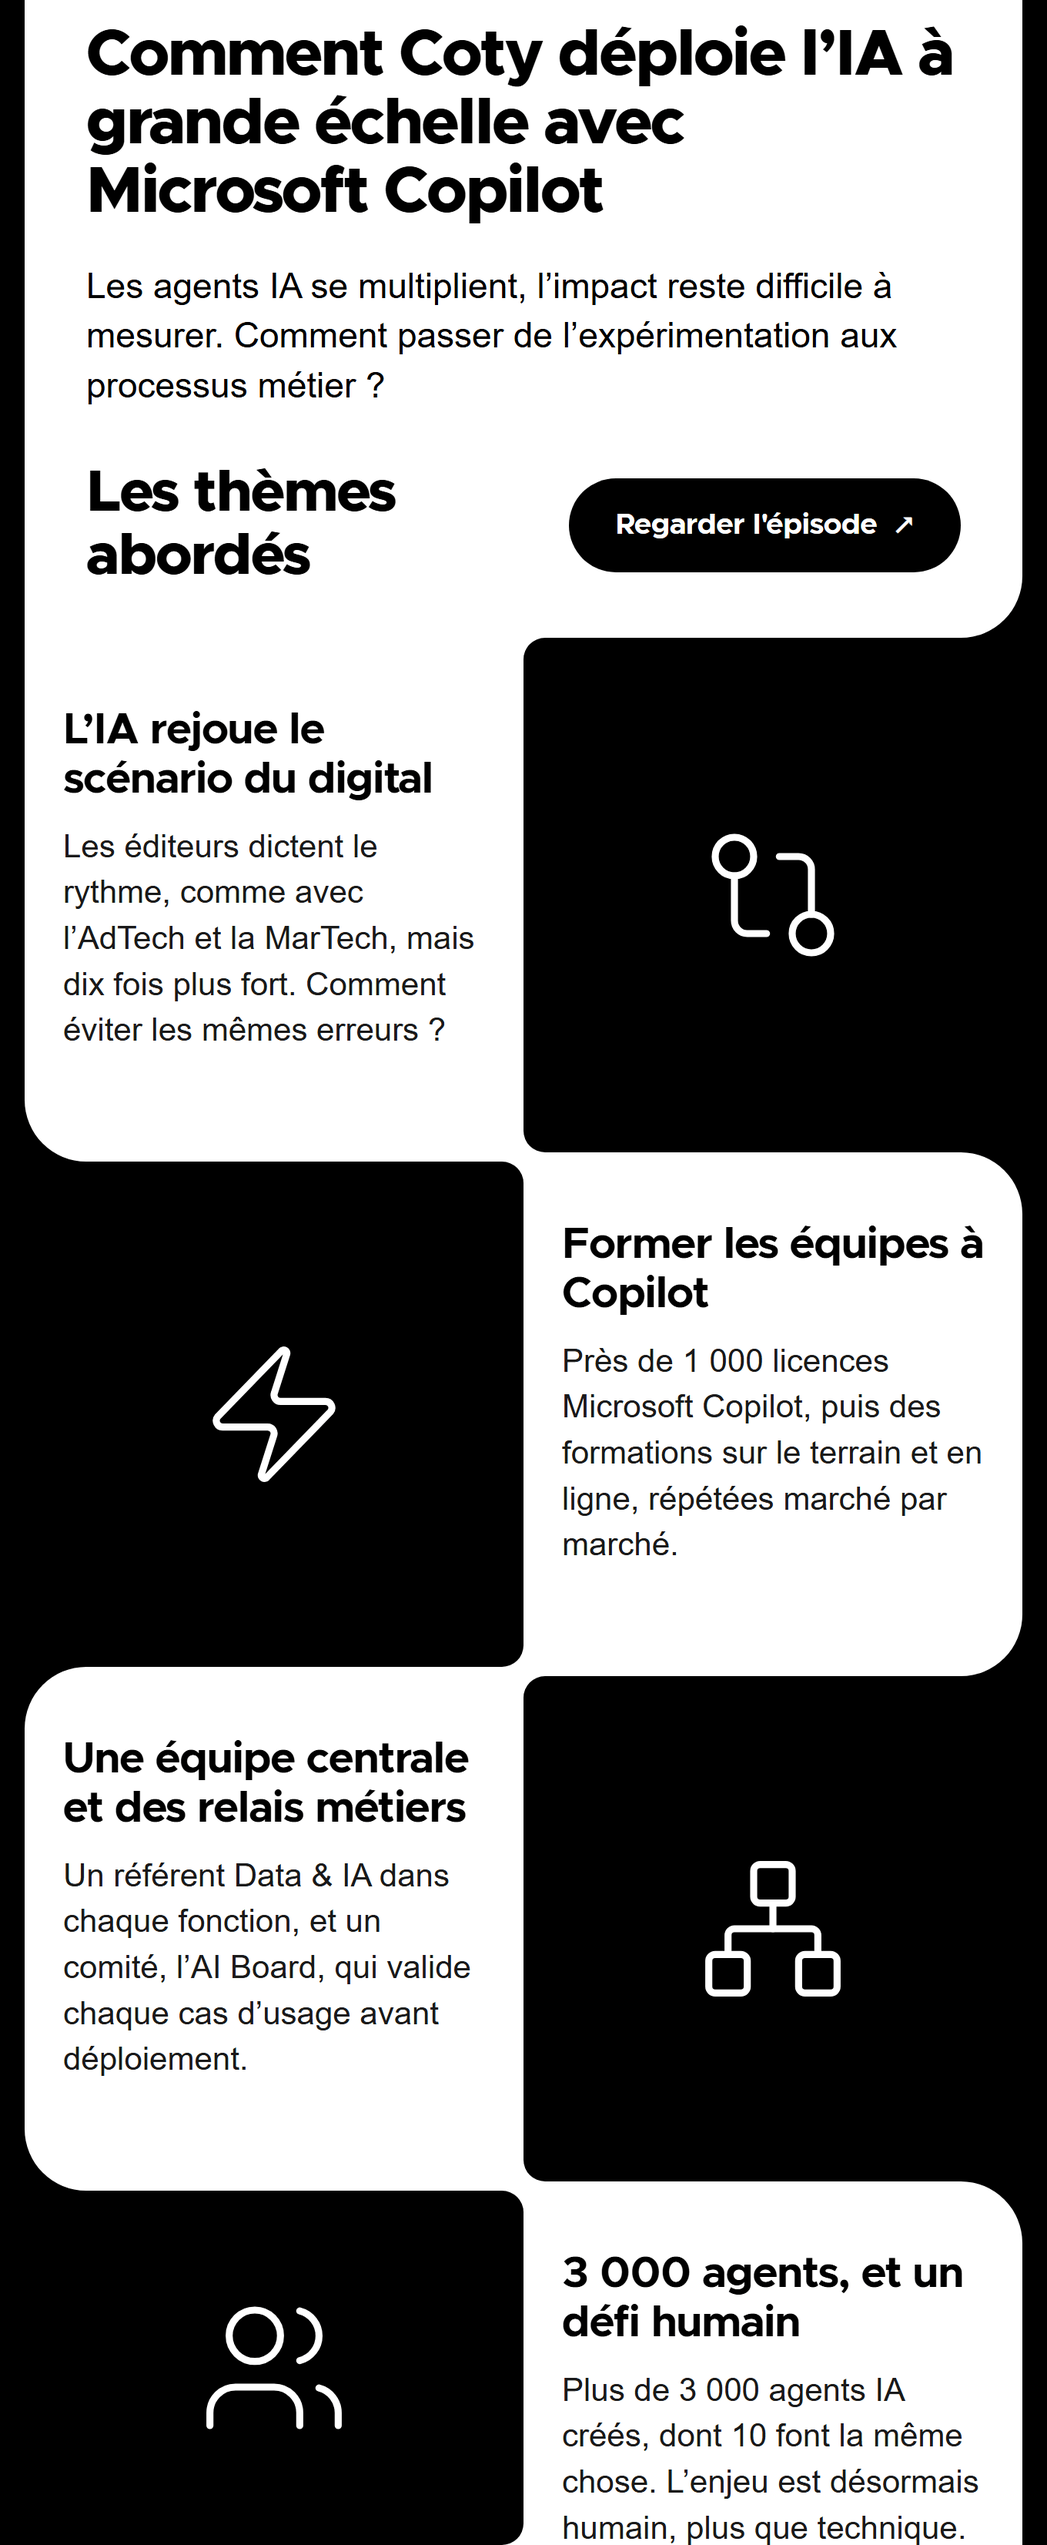
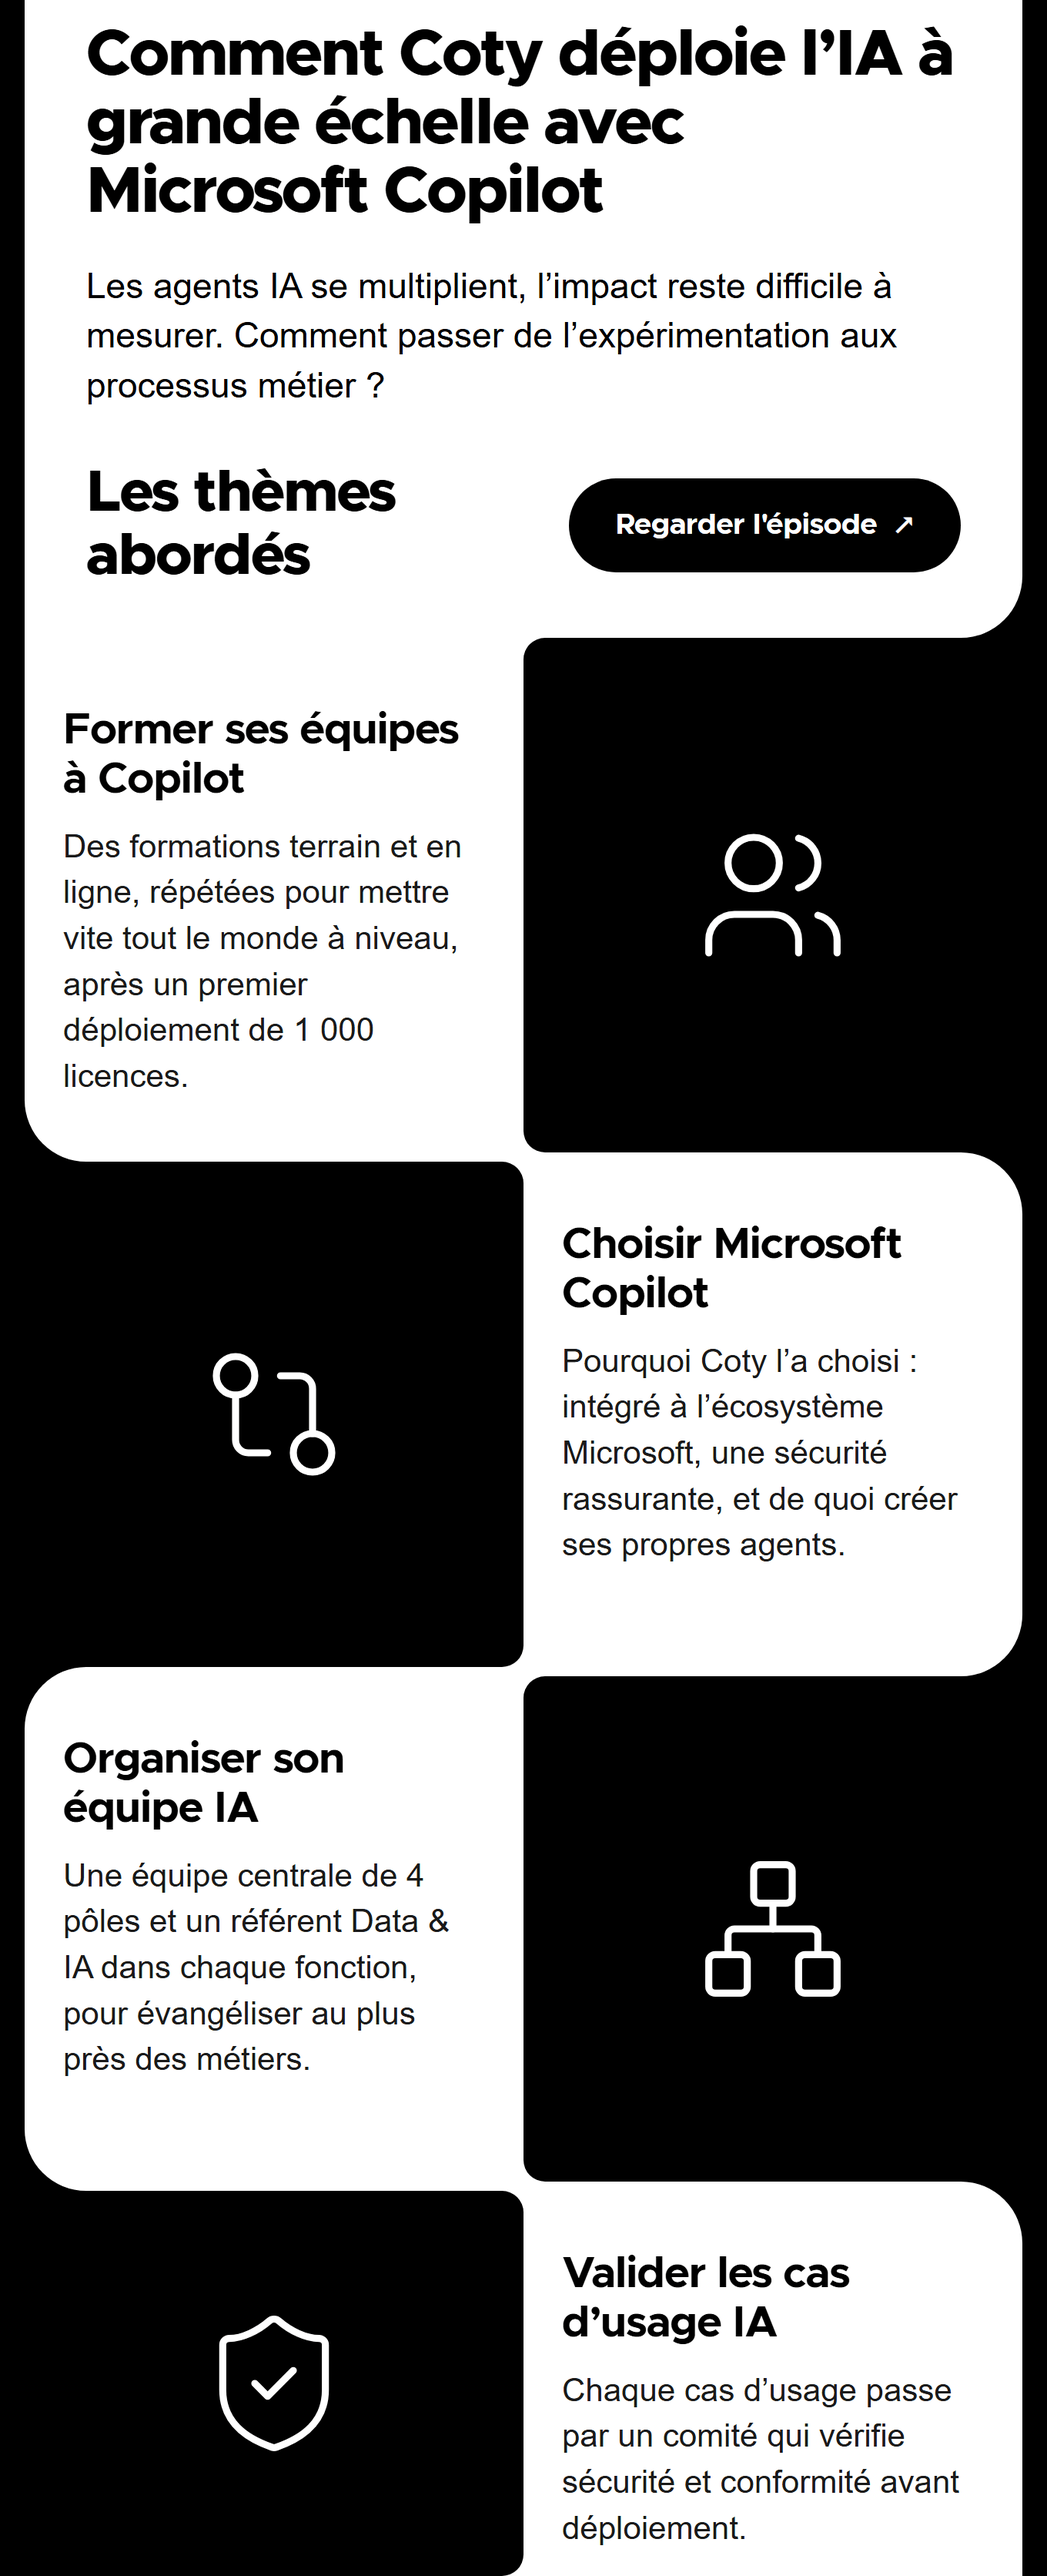
Mosaïque : carrés reformulés en sujets actionnables (former à Copilot, choisir Copilot, organiser l'équipe IA, valider les cas d'usage), retour d'Arthur 02/11

diff --git a/docs/newsletters/E23/email.html b/docs/newsletters/E23/email.html
@@ -7,6 +7,6 @@
 <div style="display:none;max-height:0;overflow:hidden;opacity:0">Nicolas Comestaz (Coty) : 3000 agents créés, et maintenant ? Sa méthode.</div>
 <table role="presentation" width="100%" cellpadding="0" cellspacing="0" bgcolor="#000000"><tr><td align="center" style="padding:24px 12px">
 <table role="presentation" width="680" cellpadding="0" cellspacing="0" bgcolor="#000000" style="width:100%;max-width:680px;border-radius:16px;overflow:hidden">
-<tr><td bgcolor="#000000" height="24" style="font-size:0;line-height:0;height:24px">&nbsp;</td></tr><tr><td bgcolor="#000000" style="font-size:0;line-height:0"><a href="{{lien_youtube}}" style="text-decoration:none"><img src="https://arthurw31.github.io/ai-partners-podcast-content-machine/newsletters/E23/mosaique_entete.png" width="680" alt="AI Corner by AI Partners, épisode E23" style="display:block;width:100%;max-width:680px;border:0"></a></td></tr><tr><td bgcolor="#000000" style="font-size:0;line-height:0"><a href="{{lien_youtube}}" style="text-decoration:none"><img src="https://arthurw31.github.io/ai-partners-podcast-content-machine/newsletters/E23/mosaique_miniature.jpg" width="680" alt="Comment Coty déploie l’IA à grande échelle avec Microsoft Copilot" style="display:block;width:100%;max-width:680px;border:0"></a></td></tr><tr><td bgcolor="#000000" style="font-size:0;line-height:0"><a href="{{lien_youtube}}" style="text-decoration:none"><img src="https://arthurw31.github.io/ai-partners-podcast-content-machine/newsletters/E23/mosaique_haut.png" width="680" alt="Comment Coty déploie l’IA à grande échelle avec Microsoft Copilot Les agents IA se multiplient, l’impact reste difficile à mesurer. Comment passer de l’expérimentation aux processus métier ? Les thèmes abordés. Regarder l&#x27;épisode. 04:53 L’IA rejoue le scénario du digital : Les éditeurs dictent le rythme, comme avec l’AdTech et la MarTech, mais dix fois plus fort. Comment éviter les mêmes erreurs ? 09:32 Former les équipes à Copilot : Près de 1 000 licences Microsoft Copilot, puis des formations sur le terrain et en ligne, répétées marché par marché. 22:47 Une équipe centrale et des relais métiers : Un référent Data &amp; IA dans chaque fonction, et un comité, l’AI Board, qui valide chaque cas d’usage avant déploiement. 31:54 3 000 agents, et un défi humain : Plus de 3 000 agents IA créés, dont 10 font la même chose. L’enjeu est désormais humain, plus que technique." style="display:block;width:100%;max-width:680px;border:0"></a></td></tr><tr><td bgcolor="#000000" style="font-size:0;line-height:0"><a href="https://calendar.google.com/calendar/appointments/schedules/AcZssZ0_yeSZr-eANdqFosuQLg2jE2smXxRU-eIMCXBA0WC3CynV7uSHwNeGX8FK-0MHDtpLcNiC4f9_?gv=true" style="text-decoration:none"><img src="https://arthurw31.github.io/ai-partners-podcast-content-machine/newsletters/E23/mosaique_fin.png" width="680" alt="Ma phrase préférée : le Head of AI est un architecte. Il comprend assez la technique pour challenger, sans poser le carrelage lui-même. Thomas Spitz Vos équipes testent l&#x27;IA. Et après ? Réserver un échange avec Thomas" style="display:block;width:100%;max-width:680px;border:0"></a></td></tr><tr><td bgcolor="#000000" align="center" style="padding:0 16px"><table role="presentation" width="100%" bgcolor="#FFFFFF" cellpadding="0" cellspacing="0"><tr><td align="center" bgcolor="#FFFFFF" style="padding:0 0 4px"><table role="presentation" align="center" cellpadding="0" cellspacing="0"><tr><td align="center" valign="middle" width="100" style="padding:0 4px;font-size:0;line-height:0"><a href="https://www.youtube.com/playlist?list=PLeeolan_fqxdZbU5xZqEwo12pbqK3fH5N" style="text-decoration:none"><img src="https://arthurw31.github.io/ai-partners-podcast-content-machine/newsletters/E23/mosaique_youtube.png" width="100" height="100" alt="Youtube" style="display:block;width:100px;height:100px;border:0"></a></td><td align="center" valign="middle" width="100" style="padding:0 4px;font-size:0;line-height:0"><a href="https://open.spotify.com/show/4chUmiipM4KiK4sEdL9BeP" style="text-decoration:none"><img src="https://arthurw31.github.io/ai-partners-podcast-content-machine/newsletters/E23/mosaique_spotify.png" width="100" height="100" alt="Spotify" style="display:block;width:100px;height:100px;border:0"></a></td><td align="center" valign="middle" width="100" style="padding:0 4px;font-size:0;line-height:0"><a href="https://podcast.ausha.co/ai-partners-podcast" style="text-decoration:none"><img src="https://arthurw31.github.io/ai-partners-podcast-content-machine/newsletters/E23/mosaique_ausha.png" width="100" height="100" alt="Ausha" style="display:block;width:100px;height:100px;border:0"></a></td></tr></table></td></tr></table></td></tr><tr><td bgcolor="#000000" style="font-size:0;line-height:0"><img src="https://arthurw31.github.io/ai-partners-podcast-content-machine/newsletters/E23/mosaique_plateformes_bas.png" width="680" alt="" style="display:block;width:100%;max-width:680px;border:0"></td></tr>
+<tr><td bgcolor="#000000" height="24" style="font-size:0;line-height:0;height:24px">&nbsp;</td></tr><tr><td bgcolor="#000000" style="font-size:0;line-height:0"><a href="{{lien_youtube}}" style="text-decoration:none"><img src="https://arthurw31.github.io/ai-partners-podcast-content-machine/newsletters/E23/mosaique_entete.png" width="680" alt="AI Corner by AI Partners, épisode E23" style="display:block;width:100%;max-width:680px;border:0"></a></td></tr><tr><td bgcolor="#000000" style="font-size:0;line-height:0"><a href="{{lien_youtube}}" style="text-decoration:none"><img src="https://arthurw31.github.io/ai-partners-podcast-content-machine/newsletters/E23/mosaique_miniature.jpg" width="680" alt="Comment Coty déploie l’IA à grande échelle avec Microsoft Copilot" style="display:block;width:100%;max-width:680px;border:0"></a></td></tr><tr><td bgcolor="#000000" style="font-size:0;line-height:0"><a href="{{lien_youtube}}" style="text-decoration:none"><img src="https://arthurw31.github.io/ai-partners-podcast-content-machine/newsletters/E23/mosaique_haut.png" width="680" alt="Comment Coty déploie l’IA à grande échelle avec Microsoft Copilot Les agents IA se multiplient, l’impact reste difficile à mesurer. Comment passer de l’expérimentation aux processus métier ? Les thèmes abordés. Regarder l&#x27;épisode. 09:32 Former ses équipes à Copilot : Des formations terrain et en ligne, répétées pour mettre vite tout le monde à niveau, après un premier déploiement de 1 000 licences. 12:06 Choisir Microsoft Copilot : Pourquoi Coty l’a choisi : intégré à l’écosystème Microsoft, une sécurité rassurante, et de quoi créer ses propres agents. 22:47 Organiser son équipe IA : Une équipe centrale de 4 pôles et un référent Data &amp; IA dans chaque fonction, pour évangéliser au plus près des métiers. 25:23 Valider les cas d’usage IA : Chaque cas d’usage passe par un comité qui vérifie sécurité et conformité avant déploiement." style="display:block;width:100%;max-width:680px;border:0"></a></td></tr><tr><td bgcolor="#000000" style="font-size:0;line-height:0"><a href="https://calendar.google.com/calendar/appointments/schedules/AcZssZ0_yeSZr-eANdqFosuQLg2jE2smXxRU-eIMCXBA0WC3CynV7uSHwNeGX8FK-0MHDtpLcNiC4f9_?gv=true" style="text-decoration:none"><img src="https://arthurw31.github.io/ai-partners-podcast-content-machine/newsletters/E23/mosaique_fin.png" width="680" alt="Ma phrase préférée : le Head of AI est un architecte. Il comprend assez la technique pour challenger, sans poser le carrelage lui-même. Thomas Spitz Vos équipes testent l&#x27;IA. Et après ? Réserver un échange avec Thomas" style="display:block;width:100%;max-width:680px;border:0"></a></td></tr><tr><td bgcolor="#000000" align="center" style="padding:0 16px"><table role="presentation" width="100%" bgcolor="#FFFFFF" cellpadding="0" cellspacing="0"><tr><td align="center" bgcolor="#FFFFFF" style="padding:0 0 4px"><table role="presentation" align="center" cellpadding="0" cellspacing="0"><tr><td align="center" valign="middle" width="100" style="padding:0 4px;font-size:0;line-height:0"><a href="https://www.youtube.com/playlist?list=PLeeolan_fqxdZbU5xZqEwo12pbqK3fH5N" style="text-decoration:none"><img src="https://arthurw31.github.io/ai-partners-podcast-content-machine/newsletters/E23/mosaique_youtube.png" width="100" height="100" alt="Youtube" style="display:block;width:100px;height:100px;border:0"></a></td><td align="center" valign="middle" width="100" style="padding:0 4px;font-size:0;line-height:0"><a href="https://open.spotify.com/show/4chUmiipM4KiK4sEdL9BeP" style="text-decoration:none"><img src="https://arthurw31.github.io/ai-partners-podcast-content-machine/newsletters/E23/mosaique_spotify.png" width="100" height="100" alt="Spotify" style="display:block;width:100px;height:100px;border:0"></a></td><td align="center" valign="middle" width="100" style="padding:0 4px;font-size:0;line-height:0"><a href="https://podcast.ausha.co/ai-partners-podcast" style="text-decoration:none"><img src="https://arthurw31.github.io/ai-partners-podcast-content-machine/newsletters/E23/mosaique_ausha.png" width="100" height="100" alt="Ausha" style="display:block;width:100px;height:100px;border:0"></a></td></tr></table></td></tr></table></td></tr><tr><td bgcolor="#000000" style="font-size:0;line-height:0"><img src="https://arthurw31.github.io/ai-partners-podcast-content-machine/newsletters/E23/mosaique_plateformes_bas.png" width="680" alt="" style="display:block;width:100%;max-width:680px;border:0"></td></tr>
 <tr><td bgcolor="#000000" class="pad" style="padding:22px 40px;font-family:Helvetica, Arial, sans-serif;font-size:12px;line-height:1.6;color:#B5B5B5">AI Corner, le podcast d'AI Partners.<!--FOOT--></td></tr>
 </table></td></tr></table></body></html>

diff --git a/clipper/newsletter_mosaique.py b/clipper/newsletter_mosaique.py
@@ -54,7 +54,7 @@ def stair(o: int) -> dict:
     r1e = r1s + BH
     l2s = r1e - OV
     l2e = l2s + BH
-    return {"l1e": r1s + OV, "r1s": r1s, "r1e": r1e, "l2s": l2s, "l2e": l2e, "r2s": l2e - OV, "step": l2e + 230}
+    return {"l1e": r1s + OV, "r1s": r1s, "r1e": r1e, "l2s": l2s, "l2e": l2e, "r2s": l2e - OV, "step": l2e + 250}
 
 
 def ribbon(o: int, end: int | None = None) -> list:
@@ -82,7 +82,7 @@ def sentences(text: str, max_chars: int, max_sentences: int = 2) -> str:
 def short_texts(mail: dict, title: str) -> dict:
     prog = []
     for i, p in enumerate(mail.get("program") or []):
-        prog.append({"time": _tc(p.get("chapter")), "title": p.get("court_title") or p.get("title", ""), "text": p.get("court") or sentences(p.get("text", ""), 95, 1),
+        prog.append({"time": _tc(p.get("court_chapter") or p.get("chapter")), "title": p.get("court_title") or p.get("title", ""), "text": p.get("court") or sentences(p.get("text", ""), 95, 1),
                      "glyph": p.get("glyph") or DEFAULT_GLYPHS[i % len(DEFAULT_GLYPHS)]})
     return {"title": re.sub(r"^\s*AI Corner E\d+\s*\|\s*", "", title or mail.get("theme", "")),
             "hook": mail.get("hook_court") or sentences(mail.get("hook", ""), 150, 2),

diff --git a/CLAUDE.md b/CLAUDE.md
@@ -144,6 +144,7 @@ Puis noter la demande et sa date dans la section concernée de ce fichier.
 - `clipper/newsletter_mosaique.py` : `newsletter --render --template mosaique` ; images `mosaique_*.png` rendues par Chrome (un mail ne dessine pas
   de coins concaves), texte alternatif complet, 256 couleurs et miniature en JPEG pour rester sous ~200 Ko ; textes raccourcis dans contenu.json
   (`hook_court`, `intro_court`, `closing_court`, `program[i].court`, `stat`), à défaut le début du texte long. Défaut de la marque inchangé : `duo`.
+- **Carrés = sujets ACTIONNABLES** (Arthur, 02/11/2026 : « former les équipes à Copilot c'est concret, le mec qui doit faire ça tombe dessus et va aller voir ; l'IA rejoue le scénario du digital, c'est pas concret ») : titre = ce que le lecteur a à faire ou à décider (« Former ses équipes à Copilot », « Choisir Microsoft Copilot », « Organiser son équipe IA », « Valider les cas d'usage IA »), texte = ce que l'épisode en dit, uniquement des faits dits dans l'épisode ; champs `court_title`, `court`, `court_chapter`, `glyph` de `program[]` (contenu.json), indépendants du `title` / `text` des autres gabarits. Pictogrammes : `users`, `git-compare`, `network`, `shield-check` (Lucide).
 - **Lisibilité** (collègue marketing, 02/11/2026 : « difficile à lire » dans le module HubSpot, ≈ 480 px donc texte réduit à ≈ 70 %) : forme blanche presque pleine largeur (`SW` 648, marge noire 16 px), textes ≈ 30 % plus gros (corps 22–23 px, carrés 25 / 18 px, boutons 19 px), gris foncés (aucun gris clair sur blanc), plus d'intro (titre + accroche suffisent), carrés : titre 28 px, texte 21 px, 6 lignes au plus (`BH` 340 ; Arthur, 02/11/2026 : « grossis encore le texte des carrés »). Texte DANS l'image : ne jamais redescendre sous ces tailles ; `apercu_hubspot_480px.png` = simulation du rendu HubSpot.
 - Limites connues : texte DANS l'image (réduit sur téléphone : ≈ 0,55x, à tester Gmail / Outlook) ; pas de module HubSpot pour ce gabarit ;
   textes courts à faire relire par Thomas. Test `test_gabarit_mosaique`.
